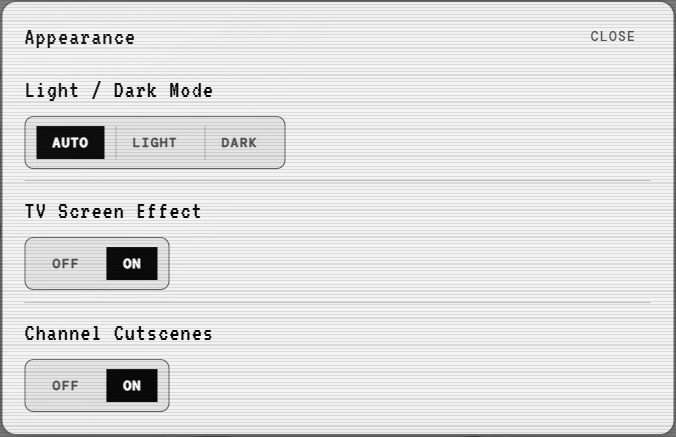
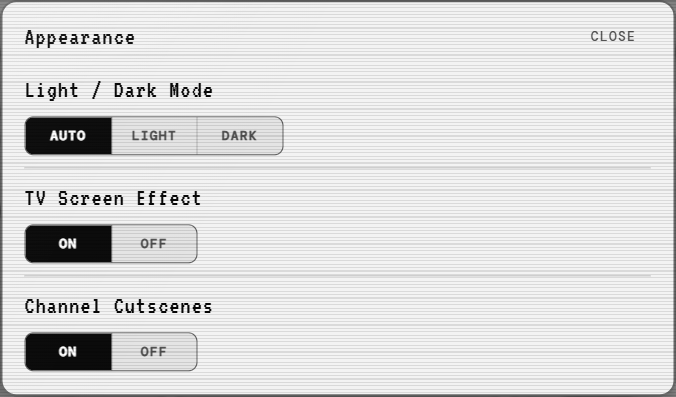
Center appearance toggle segments and order On before Off

diff --git a/session-tv/public/local.css b/session-tv/public/local.css
@@ -79,3 +79,5 @@ body.tv-home-active #view-log{visibility:hidden;pointer-events:none}#tv-home .gd
 #workspace-login{display:flex;flex-direction:column;gap:0;margin-top:20px}#workspace-login>label{margin:0 0 6px}#workspace-login>input,#workspace-login>.password-field{margin:0 0 20px}#workspace-login .password-field input{margin:0}#workspace-login .local-actions{margin:0 0 16px}#workspace-google{align-self:flex-start}#account-settings{padding:0;width:min(600px,calc(var(--crt-w,100vw) - 32px))}#account-settings section{margin-top:22px;padding-top:16px;border-top:1px solid var(--line)}#account-settings label{margin:12px 0 6px}#account-settings input{margin:0 0 16px;background:var(--modal);color:var(--ink)}#account-settings .danger{border-color:#b54135;color:#b54135}#account-settings .local-panel{box-sizing:border-box}
 
 #session-connection-summary{display:grid;gap:12px;margin:8px 0 16px}.connection-row{display:flex;align-items:center;justify-content:space-between;gap:10px;flex-wrap:wrap}.connection-row strong{font-size:14px}.connection-row .btn{font-size:11px;padding:7px 10px}.connection-state{font-size:12px}.connection-state.connected{color:#27824b;font-weight:700}.connection-state.connected::before{content:'● ';}.connection-error{font-size:12px;overflow-wrap:anywhere;margin:0}#companion-setup{padding:0;width:min(640px,calc(var(--crt-w,100vw) - 32px))}#companion-setup li{margin-bottom:14px;line-height:1.5}#companion-setup code{overflow-wrap:anywhere;user-select:all}#companion-setup a{color:inherit;text-decoration:underline}#companion-setup input{background:var(--modal);color:var(--ink)}.session-preferences-card>.row{flex:none}
+
+#appearance-preferences .preference-row .seg{gap:0;padding:0}#appearance-preferences .preference-row .seg button{box-sizing:border-box;min-width:76px;flex:1;display:flex;align-items:center;justify-content:center;padding:8px 14px;text-align:center}

diff --git a/session-tv/public/js/local.js b/session-tv/public/js/local.js
@@ -23,7 +23,7 @@
  document.body.appendChild(dialog);
  const preferences=document.createElement('dialog');preferences.id='appearance-preferences';preferences.className='confirm-dlg';preferences.setAttribute('aria-labelledby','preferences-heading');
  const group=(label,name,options)=>`<section class="preference-row"><h3>${label}</h3><div class="seg" role="group" aria-label="${label}">${options.map(([value,text])=>`<button type="button" data-pref="${name}" data-value="${value}" aria-pressed="false">${text}</button>`).join('')}</div></section>`;
- preferences.innerHTML=`<div class="local-panel"><div class="row spread"><h2 id="preferences-heading">Appearance</h2><button class="btn ghost" id="preferences-close" autofocus>Close</button></div>${group('Light / Dark Mode','scheme',[['auto','Auto'],['light','Light'],['dark','Dark']])}${group('TV Screen Effect','screenEffect',[['off','Off'],['on','On']])}${group('Channel Cutscenes','cut',[['0','Off'],['4','On']])}</div>`;
+ preferences.innerHTML=`<div class="local-panel"><div class="row spread"><h2 id="preferences-heading">Appearance</h2><button class="btn ghost" id="preferences-close" autofocus>Close</button></div>${group('Light / Dark Mode','scheme',[['auto','Auto'],['light','Light'],['dark','Dark']])}${group('TV Screen Effect','screenEffect',[['on','On'],['off','Off']])}${group('Channel Cutscenes','cut',[['4','On'],['0','Off']])}</div>`;
  document.body.appendChild(preferences);
  TV.screenEffect=recall('sb.screenEffect',true)!==false;
  function syncPreferences(){document.body.dataset.screenEffect=TV.screenEffect?'on':'off';preferences.querySelectorAll('[data-pref]').forEach(button=>{const value=button.dataset.pref==='scheme'?TV.scheme:button.dataset.pref==='screenEffect'?(TV.screenEffect?'on':'off'):String(TV.cutLen);button.setAttribute('aria-pressed',String(button.dataset.value===value))})}
